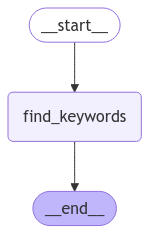
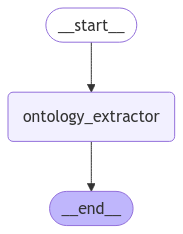
refactored

diff --git a/app/tests/agents/ontology/topic_ontology_test.py b/app/tests/agents/ontology/topic_ontology_test.py
@@ -1,0 +1,83 @@
+import pytest
+import os
+from dotenv import load_dotenv
+import sys
+from app.configs.logging_config import get_logger
+from app.configs.settings import Settings
+from app.agents.ontology.topic_ontology import TopicNode, TopicOntology
+import json
+
+# Ensure the PYTHONPATH environment variable is set to the parent directory
+sys.path.append(os.path.abspath(os.path.join(os.path.dirname(__file__))))
+
+# Create a logger
+logger = get_logger(__name__)
+
+# Load environment variables from .env file
+load_dotenv()
+
+
+def test_researched_ontology():
+    """
+    Test to convert a keyword object in string format to a proper JSON object. 
+    """
+    ontology = [TopicNode(title='Health', children=[TopicNode(title='Physical Health', children=[TopicNode(title='Exercise', children=[TopicNode(title='Cardiovascular', children=None), TopicNode(title='Strength Training', children=None), TopicNode(title='Flexibility', children=None)]), TopicNode(title='Nutrition', children=[TopicNode(title='Balanced Diet', children=None), TopicNode(title='Hydration', children=None), TopicNode(title='Vitamins and Minerals', children=None)]), TopicNode(title='Sleep', children=[TopicNode(title='Sleep Hygiene', children=None), TopicNode(title='Sleep Disorders', children=None)]), TopicNode(title='Preventive Care', children=[TopicNode(title='Vaccinations', children=None), TopicNode(title='Regular Check-ups', children=None)])]), TopicNode(title='Mental Health', children=[TopicNode(title='Stress Management', children=[TopicNode(title='Mindfulness', children=None), TopicNode(title='Meditation', children=None)]), TopicNode(title='Mental Disorders', children=[TopicNode(title='Anxiety', children=None), TopicNode(title='Depression', children=None)]), TopicNode(title='Therapies', children=[TopicNode(title='Cognitive Behavioral Therapy', children=None), TopicNode(title='Psychotherapy', children=None)])]), TopicNode(title='Social Health', children=[TopicNode(title='Relationships', children=[TopicNode(title='Family', children=None), TopicNode(title='Friendships', children=None)]), TopicNode(title='Community Engagement', children=[TopicNode(title='Volunteering', children=None), TopicNode(title='Social Activities', children=None)])]), TopicNode(title='Environmental Health', children=[TopicNode(title='Pollution', children=[TopicNode(title='Air Quality', children=None), TopicNode(title='Water Quality', children=None)]), TopicNode(title='Sustainability', children=[TopicNode(title='Recycling', children=None), TopicNode(title='Conservation', children=None)])]), TopicNode(title='Occupational Health', children=[TopicNode(title='Work-Life Balance', children=[TopicNode(title='Time Management', children=None), TopicNode(title='Stress Reduction', children=None)]), TopicNode(title='Workplace Safety', children=[TopicNode(title='Ergonomics', children=None), TopicNode(title='Hazard Prevention', children=None)])])])]
+    ontology_json = json.dumps([keyword.to_dict() for keyword in ontology], indent=3)
+    
+    #print(f"ontology==>> {ontology_json}")
+    #logger.info(f"ontology==>> {ontology_json}")
+
+    assert "Sleep Hygiene" in ontology_json
+    assert "Environmental Health" in ontology_json
+    
+
+def test_mind_map():
+    """
+    Test to convert a keyword object in string format to a proper JSON object. 
+    """
+    map = [TopicNode(title='Physical Health', children=[TopicNode(title='Nutrition', children=[TopicNode(title='Balanced Diet', children=None), TopicNode(title='Macronutrients', children=None), TopicNode(title='Micronutrients', children=None), TopicNode(title='Hydration', children=None)]), TopicNode(title='Exercise', children=[TopicNode(title='Cardiovascular Fitness', children=None), TopicNode(title='Strength Training', children=None), TopicNode(title='Flexibility', children=None), TopicNode(title='Endurance', children=None)]), TopicNode(title='Sleep', children=[TopicNode(title='Sleep Cycles', children=None), TopicNode(title='Sleep Hygiene', children=None), TopicNode(title='Sleep Disorders', children=None)]), TopicNode(title='Preventive Care', children=[TopicNode(title='Vaccinations', children=None), TopicNode(title='Regular Check-ups', children=None), TopicNode(title='Screenings', children=None)])]), TopicNode(title='Mental Health', children=[TopicNode(title='Emotional Well-being', children=[TopicNode(title='Stress Management', children=None), TopicNode(title='Emotional Intelligence', children=None), TopicNode(title='Mindfulness', children=None)]), TopicNode(title='Mental Disorders', children=[TopicNode(title='Anxiety Disorders', children=None), TopicNode(title='Depression', children=None), TopicNode(title='Bipolar Disorder', children=None), TopicNode(title='Schizophrenia', children=None)]), TopicNode(title='Therapies', children=[TopicNode(title='Cognitive Behavioral Therapy', children=None), TopicNode(title='Psychotherapy', children=None), TopicNode(title='Medication', children=None)])]), TopicNode(title='Social Health', children=[TopicNode(title='Relationships', children=[TopicNode(title='Family', children=None), TopicNode(title='Friendships', children=None), TopicNode(title='Romantic Relationships', children=None)]), TopicNode(title='Community Engagement', children=[TopicNode(title='Volunteering', children=None), TopicNode(title='Social Support Networks', children=None)]), TopicNode(title='Communication Skills', children=[TopicNode(title='Active Listening', children=None), TopicNode(title='Conflict Resolution', children=None), TopicNode(title='Empathy', children=None)])]), TopicNode(title='Environmental Health', children=[TopicNode(title='Pollution', children=[TopicNode(title='Air Quality', children=None), TopicNode(title='Water Quality', children=None), TopicNode(title='Soil Contamination', children=None)]), TopicNode(title='Sustainability', children=[TopicNode(title='Recycling', children=None), TopicNode(title='Renewable Energy', children=None), TopicNode(title='Conservation', children=None)]), TopicNode(title='Occupational Health', children=[TopicNode(title='Workplace Safety', children=None), TopicNode(title='Ergonomics', children=None), TopicNode(title='Work-Life Balance', children=None)])])]
+    
+    map_json = json.dumps([node.to_dict() for node in map], indent=3)
+
+    print(f"Map==>> {map_json}")
+
+    assert "Sleep Hygiene" in map_json
+    assert "Physical Health" in map_json
+    assert "Mental Health" in map_json
+    assert "Social Health" in map_json
+    assert "Environmental Health" in map_json
+
+
+def test_load_curriculum_ontology():
+    """
+    Test loading and validating curriculum ontology from JSON file
+    """
+    # Load JSON file
+    with open('data/test/curriculum-ontology.json', 'r') as f:
+        curriculum_data = json.load(f)
+    
+    # Basic structure validation
+    assert isinstance(curriculum_data, dict)
+    assert "title" in curriculum_data
+    assert "children" in curriculum_data
+    assert curriculum_data["title"] == "Health"
+    
+    # Validate first level categories exist
+    first_level = [child["title"] for child in curriculum_data["children"]]
+    expected_categories = [
+        "Physical Health",
+        "Mental Health", 
+        "Social Health",
+        "Environmental Health",
+        "Occupational Health"
+    ]
+    assert all(category in first_level for category in expected_categories)
+    
+    # Validate some nested structures
+    physical_health = next(child for child in curriculum_data["children"] 
+                            if child["title"] == "Physical Health")
+    assert "Exercise" in [child["title"] for child in physical_health["children"]]
+    
+    mental_health = next(child for child in curriculum_data["children"]
+                        if child["title"] == "Mental Health")
+    assert "Stress Management" in [child["title"] for child in mental_health["children"]]

diff --git a/app/agents/ontology/ontology_agent.py b/app/agents/ontology/ontology_agent.py
@@ -1,12 +1,27 @@
 
 from typing import List, Any, Optional
 from logging import getLogger
+from venv import logger
 
 from app.agents.base import BaseAgent
 from app.configs.settings import Settings
-from app.agents.ontology.researched_state import ResearchedState, MindMapNode, Curriculum
+from app.agents.ontology.researched_state import ResearchedState
+from app.agents.ontology.topic_ontology import TopicNode, TopicOntology
 from app.shared.llm.llm_factory import LLMFactory
 
+
+# Web Development
+# ├── Frontend Development
+# │   ├── HTML & CSS Basics
+# │   ├── JavaScript
+# │   │   ├── Syntax and Variables
+# │   │   ├── DOM Manipulation
+# │   │   └── Async Programming
+# │   └── Frameworks
+# ├── Backend Development
+# │   ├── Databases
+# │   ├── APIs
+# │   └── Server-side Languages
 
 
 class OntologyAgent(BaseAgent):
@@ -38,7 +53,7 @@ class OntologyAgent(BaseAgent):
         pass
 
     
-    async def _extract_keywords(self, topic: str) -> Any:
+    async def _make_ontology(self, topic: str) -> Any:
         """Extract relevant keywords for a given topic using LLM."""
         
         messages = [
@@ -50,43 +65,41 @@ class OntologyAgent(BaseAgent):
 
         try:
             llm = LLMFactory.get_llm(Settings.llm_openai)
-            structured_llm = llm.with_structured_output(schema=Curriculum)
+            structured_llm = llm.with_structured_output(schema=TopicOntology)
 
             response = structured_llm.invoke(messages)    
-            print(f"response ==>> {response}")
-
-            #raw_content = response.get("choices", [{}])[0].get("message", {}).get("content", None)
-
-            #keywords_list = keywords_str.split(",") if keywords_str != "" else []            
-            #researched_keywords = ResearchedKeywords.model_validate_json(raw_content)
+            logger.info(f"response: {response}")
             
-            
-            # researched_keywords = ResearchedKeywords(keywords=raw_content, is_reviewed=False)
             return response
         except Exception as e:
             self.logger.error(f"Error extracting keywords: {str(e)}")
             return None
 
 
+    def _find_keywords(self, ontology: TopicOntology) -> dict[str, list[str]]:
+        """Find keywords in the ontology."""
+        pass
+
+
     # Review content generated for a topic.
-    async def review_content(self, topic:str, generated_content: ResearchedState) -> ResearchedState:
-        """Review content generated for a topic."""
+    # async def review_content(self, topic:str, generated_content: ResearchedState) -> ResearchedState:
+    #     """Review content generated for a topic."""
 
-        messages = [
-            {"role": "system", "content": f"Context: You are a content editor who is responsible for creating curriculum for topic {topic}. One of your editors has created the following mind-map of topics to cover in developing curriculum for it. Your task is to review and edit this content to create a final version that can be used to categorize learning topics for this subject."},
-            {"role": "user", "content":  "Here is the mindmap created by the editor:\n\n {generated_content}" }              
+    #     messages = [
+    #         {"role": "system", "content": f"Context: You are a content editor who is responsible for creating curriculum for topic {topic}. One of your editors has created the following mind-map of topics to cover in developing curriculum for it. Your task is to review and edit this content to create a final version that can be used to categorize learning topics for this subject."},
+    #         {"role": "user", "content":  "Here is the mindmap created by the editor:\n\n {generated_content}" }              
 
-        ]
-        llm = LLMFactory.get_llm(Settings.llm_claude)
-        llm.with_structured_output(ResearchedState)
+    #     ]
+    #     llm = LLMFactory.get_llm(Settings.llm_claude)
+    #     llm.with_structured_output(ResearchedState)
 
-        editor_response =  llm.invoke(messages)   
+    #     editor_response =  llm.invoke(messages)   
         
-        reviewed_content = editor_response.get("choices", [{}])[0].get("message", {}).get("content", "")
+    #     reviewed_content = editor_response.get("choices", [{}])[0].get("message", {}).get("content", "")
         
-        print(f"Reviewed Content ==>> {reviewed_content}")
+    #     print(f"Reviewed Content ==>> {reviewed_content}")
 
-        return reviewed_content;
+    #     return reviewed_content;
 
 
 
@@ -107,10 +120,9 @@ class OntologyAgent(BaseAgent):
             await self.initialize()
             
             # Get keywords for each topic
-            curriculum = await self._extract_keywords(input)
+            curriculum = await self._make_ontology(input)
 
-            print(f"1 curriculum ==>> {curriculum}") 
-
+            # TODO: review content if not already reviewed. Later can be used in a loop
             # review content if not already reviewed. Later can be used in a loop
             # if researched_keywords.is_reviewed == False:
             #     reviewed_content = await self._review_content(input, researched_keywords)
@@ -133,7 +145,7 @@ class OntologyAgent(BaseAgent):
                     error="",
                     curriculum=curriculum,
                     input=input,
-                    is_reviewed=Falses
+                    is_reviewed=False
                 )
 
         except Exception as e:
@@ -141,7 +153,7 @@ class OntologyAgent(BaseAgent):
             return ResearchedState(
                 success=False,
                 error=str(e),
-                curriculum=Curriculum(title="", description="", keywords=[]),
+                curriculum=TopicOntology(title="", description="", topics=[]),
                 input=input,
                 is_reviewed=False
             )

diff --git a/app/agents/ontology/researched_state.py b/app/agents/ontology/researched_state.py
@@ -1,21 +1,8 @@
 from pydantic import BaseModel
 from typing import Optional
 import json
+from .topic_ontology import TopicOntology
 
-class MindMapNode(BaseModel):
-    title: str
-    children: Optional[list['MindMapNode']] = None
-
-    def to_dict(self):
-        return {
-            "title": self.title,
-            "children": [child.to_dict() for child in self.children] if self.children else None
-        }
-
-class Curriculum(BaseModel):
-    title: str
-    description: str
-    keywords: list[MindMapNode]
 
 
 class ResearchedState(BaseModel):
@@ -26,7 +13,7 @@ class ResearchedState(BaseModel):
         keywords (List[MindMapNode]): The keywords stored as category > subcategory > children. For example, "Programming" > [ "Python" > ["Django", "Flask"]]
     """          
     input: str
-    curriculum: Curriculum = Curriculum(title="", description="", keywords=[])
+    curriculum: TopicOntology = TopicOntology(title="", description="", topics=[])
     is_reviewed: bool = False
     error: str = ""
     success: bool = False
@@ -38,7 +25,7 @@ class ResearchedState(BaseModel):
     def to_dict(self):
         return {
             "input": self.input,
-            "curriculum": [keyword.to_dict() for keyword in self.curriculum.keywords],
+            "curriculum": [keyword.to_dict() for keyword in self.curriculum.topics],
             "is_reviewed": self.is_reviewed,
             "error": self.error,
             "success": self.success
@@ -47,7 +34,7 @@ class ResearchedState(BaseModel):
     def to_json(self):
         return {
             "input": self.input,
-            "keywords": json.dumps([keyword.to_dict() for keyword in self.curriculum.keywords], indent=3),
+            "keywords": json.dumps([keyword.to_dict() for keyword in self.curriculum.topics], indent=3),
             "is_reviewed": self.is_reviewed,
             "error": self.error,
             "success": self.success

diff --git a/scripts/draw_agent_flow.py b/scripts/draw_agent_flow.py
@@ -1,15 +1,10 @@
 from IPython.display import Image, display
-import os
-import sys
-# from app.research_agent.utils.nodes import graph
-
-# Add the root directory of the project to sys.path
-# sys.path.append(os.path.abspath(os.path.join(os.path.dirname(__file__), '../')))
-from app.research_agent.agent import app
+import asyncio
+from app.workflows.ontology_creation_workflow import create_graph
 
 
 
-def draw_agent_flow(file_path: str = "docs/agent_flow_graph.png"):
+async def draw_agent_flow(file_path: str = "docs/agent_flow_graph.png"):
     """
     Draw the agentic flow graph and save it to a file
 
@@ -20,6 +15,7 @@ def draw_agent_flow(file_path: str = "docs/agent_flow_graph.png"):
         None
     """
     try:
+        app = await create_graph()
         graph_image = app.get_graph().draw_mermaid_png()
         with open(file_path, "wb") as f:
             f.write(graph_image)
@@ -30,8 +26,8 @@ def draw_agent_flow(file_path: str = "docs/agent_flow_graph.png"):
         print("Could not draw graph. Please install graphviz and mermaid-cli to draw the graph")
 
 
-def main():
-    draw_agent_flow()
+async def main():
+    await draw_agent_flow()
 
 if __name__ == "__main__":
-    main()
+    asyncio.run(main())

diff --git a/app/workflows/ontology_creation_workflow.py b/app/workflows/ontology_creation_workflow.py
@@ -11,7 +11,7 @@ from typing import Any
 import uuid
 import os
 from app.configs.settings import Settings
-
+from langchain_core.runnables import RunnableConfig
 
 settings = Settings()
 
@@ -26,18 +26,20 @@ async def ontology_node(state: ResearchedState) -> ResearchedState:
     print(f"ontology_node: Ontology extraction result==>>> {res}")
     return res
    
-
-async def main():
+async def create_graph():
     graph = StateGraph(ResearchedState)
     graph.add_node('ontology_extractor', ontology_node)
     graph.add_edge(START, 'ontology_extractor')
     graph.add_edge('ontology_extractor', END)
 
     app = graph.compile()
+    return app
 
 
-    config = {"configurable": {"thread_id": str(uuid.uuid4())}}
-    input_message =  "health" # input("Enter your topic for keyword extraction: ")  
+async def main():
+    app = await create_graph()
+    config = RunnableConfig(metadata={"thread_id": str(uuid.uuid4())})
+    input_message =  input("Enter your topic for keyword extraction: ")  
 
     state = ResearchedState(input=input_message)
 

diff --git a/app/agents/ontology/topic_ontology.py b/app/agents/ontology/topic_ontology.py
@@ -1,0 +1,33 @@
+from pydantic import BaseModel
+from typing import Optional
+from pydantic import Field
+
+
+class TopicNode(BaseModel):
+    """
+    TopicNode is a model representing a node in a mind map.
+    """
+    title: str = Field(..., description="The title of the topic")
+    children: Optional[list['TopicNode']] = Field(None, description="The children of the topic")
+
+    def to_dict(self):
+        return {
+            "title": self.title,
+            "children": [child.to_dict() for child in self.children] if self.children else None
+        }
+
+
+class TopicOntology(BaseModel):
+    """
+    TopicOntology is a model representing categories and subcategories in a tree structure.
+    """
+    title: str
+    description: str
+    topics: list[TopicNode]
+
+    def to_dict(self):
+        return {
+            "title": self.title,
+            "description": self.description,
+            "keywords": [keyword.to_dict() for keyword in self.topics]
+        }
